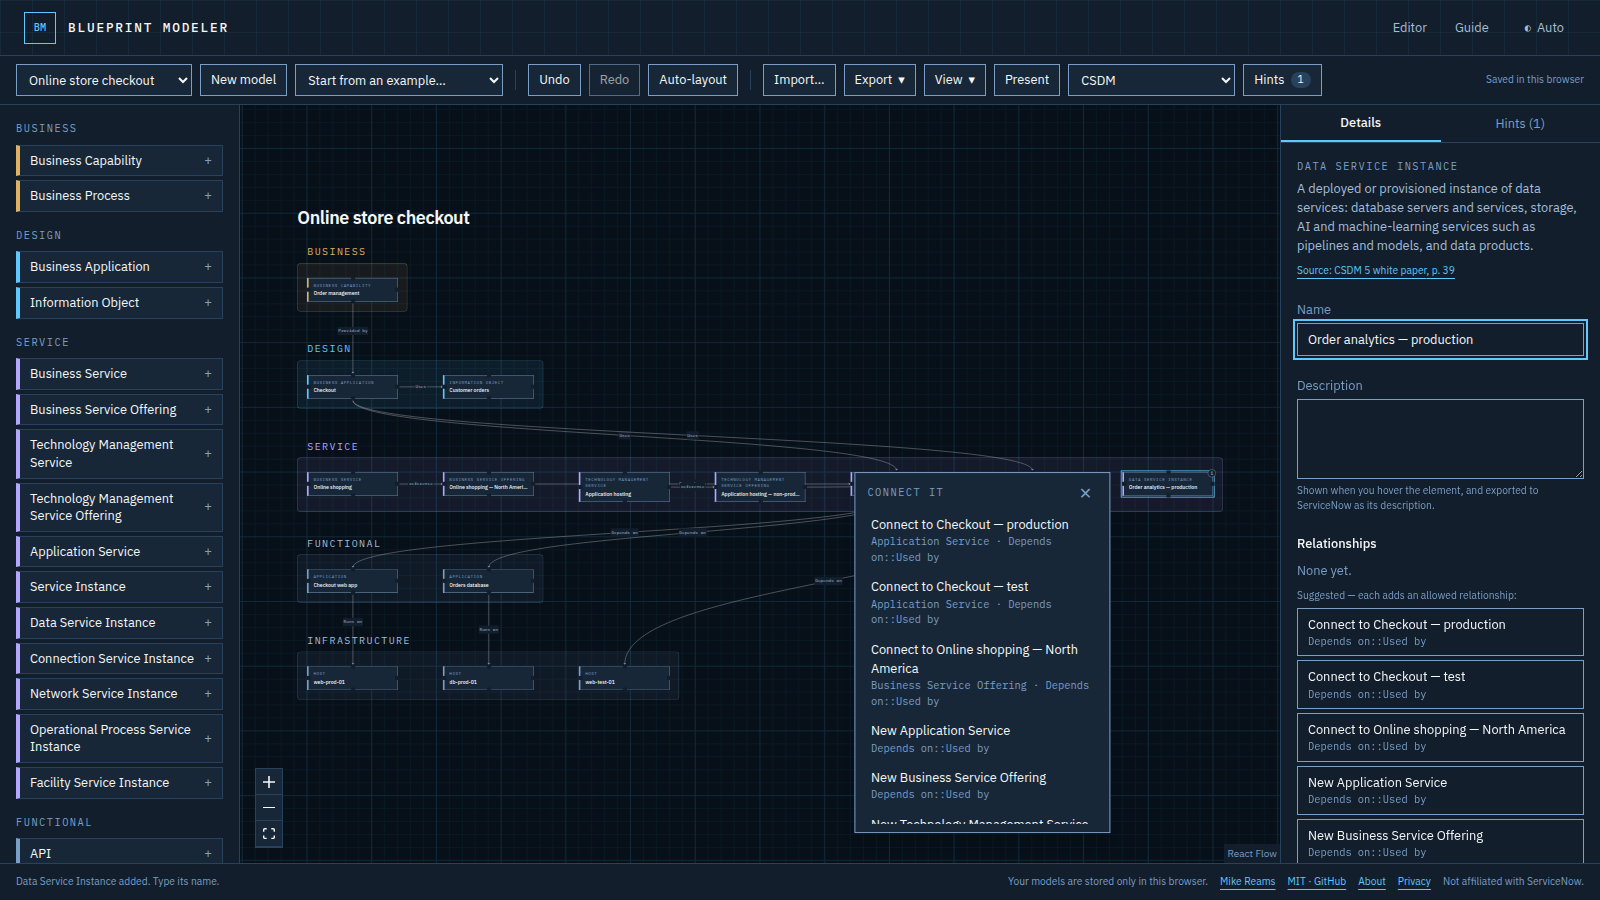
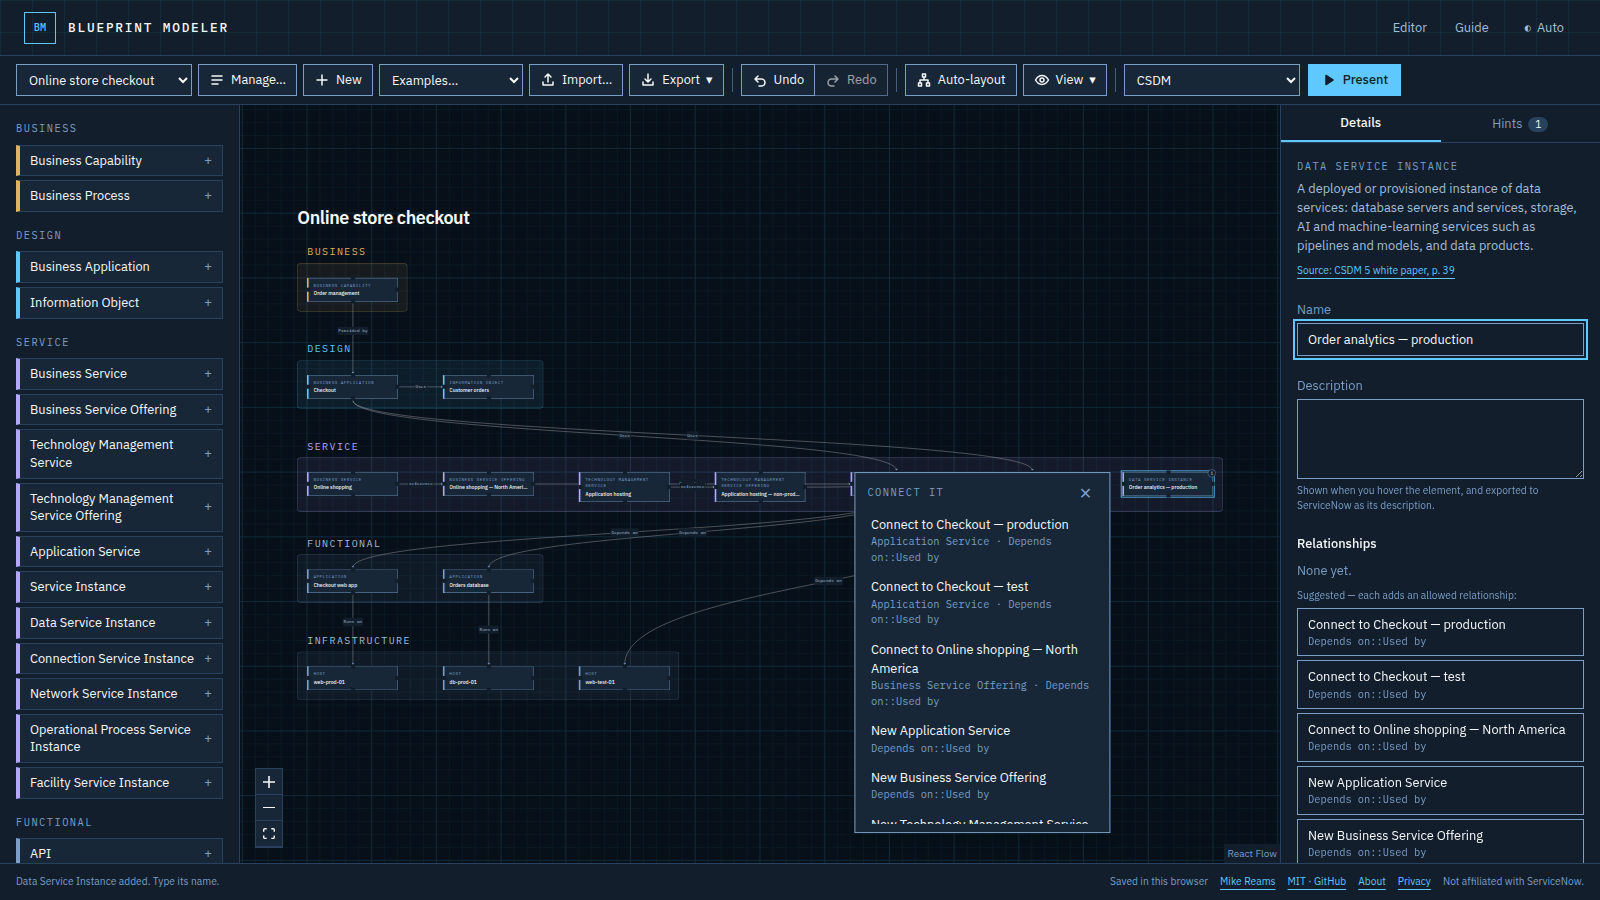
feat(M24): clearer editor toolbar
- Icons on every toolbar button (labels kept) and groups: Model, Edit
  (Undo/Redo joined), Arrange, Lens; captions on very wide screens.
- Present is the one filled button.
- The separate Hints button is gone; the Hints tab shows the count as a
  badge (amber when there are warnings).
- Save status moved to the bottom bar; one toolbar row from 1440px.
- README screenshots redrawn.

Claude-Session: https://claude.ai/code/session_01Abent9jvXwPAPZb1o8Vp7J

diff --git a/src/editor/Editor.tsx b/src/editor/Editor.tsx
@@ -49,6 +49,7 @@ import { ExportMenu, type ExportKind } from "./ExportMenu";
 import { ContextMenu, type MenuItem } from "./ContextMenu";
 import { CanvasEdge, LabelObstacles } from "./CanvasEdge";
 import { ModelManager } from "./ModelManager";
+import { ToolbarIcon } from "./ToolbarIcon";
 import { CanvasTitle } from "./CanvasTitle";
 import { LayerOverlay, layerHandleId, type LayerHandlers } from "./LayerOverlay";
 import { DEFAULT_VIEW, readView, saveView, ViewMenu, type ViewOptions } from "./ViewMenu";
@@ -77,6 +78,13 @@ const toolbarButton =
 const fitPadding = (p: number) => ({ x: p, bottom: p, top: "120px" }) as const;
 /** Status bar links: a 24px-tall target even at the bar's small text size. */
 const footerLink = "inline-flex min-h-6 items-center text-accent underline underline-offset-4 hover:opacity-90";
+/** The one filled button: Present. */
+const primaryButton =
+  "inline-flex min-h-8 cursor-pointer items-center gap-1.5 border border-accent bg-accent px-3 text-sm font-medium text-accent-ink hover:opacity-90 disabled:cursor-not-allowed disabled:opacity-60";
+/** Toolbar groups (Model, Edit, Arrange, Lens): a caption on wide screens, a divider between groups. */
+const toolbarGroup = "flex flex-wrap items-center gap-1.5";
+const groupCaption = "mr-0.5 hidden font-mono text-[0.65rem] tracking-[0.14em] text-ink-muted uppercase min-[1840px]:inline";
+const toolbarDivider = "h-6 w-px bg-border-strong/50";
 const toolbarSelect = "min-h-8 max-w-60 border border-border-strong bg-surface-raised px-2 text-sm text-ink";
 
 function useIsWide() {
@@ -736,7 +744,7 @@ function EditorInner() {
 
   const selected = model.nodes.find((n) => n.id === selectedId);
   const scopedHints = selected ? hints.filter((h) => h.nodeIds.includes(selected.id)) : hints;
-  const warnings = hints.filter((h) => h.hint.severity === "warning").length;
+  const scopedWarnings = scopedHints.filter((h) => h.hint.severity === "warning").length;
 
   const onTabKey = (e: ReactKeyboardEvent) => {
     if (e.key === "ArrowRight" || e.key === "ArrowLeft") {
@@ -770,6 +778,10 @@ function EditorInner() {
         </div>
       )}
       <div className={`flex flex-wrap items-center gap-2 border-b border-border px-4 py-2 ${presenting ? "hidden" : ""}`}>
+        <div role="group" aria-label="Model" className={toolbarGroup}>
+        <span className={groupCaption} aria-hidden="true">
+          Model
+        </span>
         <label className="flex items-center gap-2 text-sm">
           <span className="sr-only">Open model</span>
           {/* Fixed width: a long model name must not re-wrap the toolbar after the canvas has been fitted. */}
@@ -790,16 +802,18 @@ function EditorInner() {
           </select>
         </label>
         <button type="button" className={toolbarButton} onClick={() => setManaging(true)}>
+          <ToolbarIcon name="manage" />
           Manage…
         </button>
-        <button type="button" className={toolbarButton} onClick={() => void doc.newModel()}>
-          New model
+        <button type="button" className={toolbarButton} onClick={() => void doc.newModel()} aria-label="New model">
+          <ToolbarIcon name="new" />
+          New
         </button>
         <label className="flex items-center text-sm">
           <span className="sr-only">Start from an example</span>
           {/* Fixed width, like the model picker: a long example name must not re-wrap the toolbar. */}
-          <select className={`${toolbarSelect} w-52`} value="" onChange={(e) => void loadExample(e.target.value)}>
-            <option value="">Start from an example…</option>
+          <select className={`${toolbarSelect} w-36`} value="" onChange={(e) => void loadExample(e.target.value)}>
+            <option value="">Examples…</option>
             {examples.map((ex) => (
               <option key={ex.id} value={ex.id}>
                 {ex.name}
@@ -807,22 +821,10 @@ function EditorInner() {
             ))}
           </select>
         </label>
-        <span className="mx-1 h-5 w-px bg-border" aria-hidden="true" />
-        <button type="button" className={toolbarButton} disabled={!doc.canUndo} onClick={() => dispatch({ type: "undo" })} aria-keyshortcuts="Control+Z">
-          Undo
-        </button>
-        <button type="button" className={toolbarButton} disabled={!doc.canRedo} onClick={() => dispatch({ type: "redo" })} aria-keyshortcuts="Control+Shift+Z">
-          Redo
-        </button>
-        {wide && (
-          <button type="button" className={toolbarButton} disabled={layingOut || model.nodes.length === 0} aria-busy={layingOut} onClick={() => void runLayout()}>
-            {layingOut ? "Laying out…" : "Auto-layout"}
-          </button>
-        )}
-        <span className="mx-1 h-5 w-px bg-border" aria-hidden="true" />
         {wide && (
           <>
             <button type="button" className={toolbarButton} onClick={() => fileInput.current?.click()}>
+              <ToolbarIcon name="import" />
               Import…
             </button>
             <input
@@ -840,42 +842,57 @@ function EditorInner() {
           </>
         )}
         <ExportMenu onExport={exportAs} buttonClass={toolbarButton} notes={{ drawio: lucidFitNote(lucidFit(model)) }} />
-        <ViewMenu value={view} onChange={setView} buttonClass={toolbarButton} />
-        <button ref={presentButton} type="button" className={toolbarButton} disabled={model.nodes.length === 0} onClick={startPresenting}>
+        </div>
+        <span className={toolbarDivider} aria-hidden="true" />
+        <div role="group" aria-label="Edit" className={toolbarGroup}>
+          <span className={groupCaption} aria-hidden="true">
+            Edit
+          </span>
+          {/* Undo and Redo as one joined pair. */}
+          <span className="inline-flex">
+            <button type="button" className={toolbarButton} disabled={!doc.canUndo} onClick={() => dispatch({ type: "undo" })} aria-keyshortcuts="Control+Z">
+              <ToolbarIcon name="undo" />
+              Undo
+            </button>
+            <button type="button" className={`${toolbarButton} -ml-px`} disabled={!doc.canRedo} onClick={() => dispatch({ type: "redo" })} aria-keyshortcuts="Control+Shift+Z">
+              <ToolbarIcon name="redo" />
+              Redo
+            </button>
+          </span>
+        </div>
+        <span className={toolbarDivider} aria-hidden="true" />
+        <div role="group" aria-label="Arrange" className={toolbarGroup}>
+          <span className={groupCaption} aria-hidden="true">
+            Arrange
+          </span>
+          {wide && (
+            <button type="button" className={toolbarButton} disabled={layingOut || model.nodes.length === 0} aria-busy={layingOut} onClick={() => void runLayout()}>
+              <ToolbarIcon name="layout" />
+              {layingOut ? "Laying out…" : "Auto-layout"}
+            </button>
+          )}
+          <ViewMenu value={view} onChange={setView} buttonClass={toolbarButton} />
+        </div>
+        <span className={toolbarDivider} aria-hidden="true" />
+        <div role="group" aria-label="Lens" className={toolbarGroup}>
+          <span className={groupCaption} aria-hidden="true">
+            Lens
+          </span>
+          <label className="flex items-center text-sm">
+            <span className="sr-only">Framework lens</span>
+            <select className={`${toolbarSelect} w-44`} value={lens} onChange={(e) => setLens(e.target.value as Lens)} data-testid="lens-select">
+              {lenses.map((l) => (
+                <option key={l.id} value={l.id}>
+                  {l.label}
+                </option>
+              ))}
+            </select>
+          </label>
+        </div>
+        <button ref={presentButton} type="button" className={primaryButton} disabled={model.nodes.length === 0} onClick={startPresenting}>
+          <ToolbarIcon name="present" />
           Present
         </button>
-        <label className="flex items-center text-sm">
-          <span className="sr-only">Framework lens</span>
-          <select className={toolbarSelect} value={lens} onChange={(e) => setLens(e.target.value as Lens)} data-testid="lens-select">
-            {lenses.map((l) => (
-              <option key={l.id} value={l.id}>
-                {l.label}
-              </option>
-            ))}
-          </select>
-        </label>
-        {wide && (
-          <button
-            type="button"
-            className={toolbarButton}
-            onClick={() => {
-              setSelectedId(null);
-              setTab("hints");
-            }}
-          >
-            Hints
-            <span className={`min-w-5 rounded-full px-1.5 font-mono text-xs ${warnings ? "bg-status text-accent-ink" : "bg-border text-ink"}`}>{hints.length}</span>
-          </button>
-        )}
-        {/* The widest routine status reserves its width, so "Saving…" ↔ "Saved" never re-wraps the toolbar (and moves the canvas). */}
-        <p className="ml-auto grid text-right text-xs text-ink-muted">
-          <span aria-hidden="true" className="invisible col-start-1 row-start-1">
-            {statusText.saved}
-          </span>
-          <span className="col-start-1 row-start-1" data-testid="save-status">
-            {statusText[doc.status]}
-          </span>
-        </p>
       </div>
 
       {ioError && !presenting && (
@@ -1011,11 +1028,21 @@ function EditorInner() {
                   type="button"
                   aria-selected={tab === t}
                   aria-controls={`panel-${t}`}
+                  aria-label={t === "hints" ? `Hints (${scopedHints.length})` : undefined}
                   tabIndex={tab === t ? 0 : -1}
                   onClick={() => setTab(t)}
                   className={`flex-1 cursor-pointer px-3 py-2 text-sm ${tab === t ? "border-b-2 border-accent font-medium text-ink" : "text-ink-muted hover:text-ink"}`}
                 >
-                  {t === "details" ? "Details" : `Hints (${scopedHints.length})`}
+                  {t === "details" ? (
+                    "Details"
+                  ) : (
+                    <>
+                      Hints
+                      <span aria-hidden="true" className={`ml-1.5 inline-block min-w-5 rounded-full px-1.5 font-mono text-xs ${scopedWarnings ? "bg-status text-accent-ink" : "bg-border text-ink"}`}>
+                        {scopedHints.length}
+                      </span>
+                    </>
+                  )}
                 </button>
               ))}
             </div>
@@ -1073,7 +1100,17 @@ function EditorInner() {
         </p>
         {/* The site footer is left off this page (the editor fills the screen); its links live here. */}
         <div className="flex flex-wrap items-center gap-x-3">
-          <p>{wide ? "Your models are stored only in this browser." : "Editing needs a screen at least 768px wide. You can view and pan here."}</p>
+          {/* The widest routine status reserves its width, so "Saving…" ↔ "Saved" never shifts the bar. */}
+          <p className="grid">
+            <span aria-hidden="true" className="invisible col-start-1 row-start-1">
+              {statusText.saved}
+            </span>
+            <span className="col-start-1 row-start-1" data-testid="save-status">
+              {statusText[doc.status]}
+            </span>
+          </p>
+          {/* "Saved in this browser" already says where models live; small screens get the editing note. */}
+          {!wide && <p>Editing needs a screen at least 768px wide. You can view and pan here.</p>}
           <nav aria-label="Site">
             <ul className="flex flex-wrap items-center gap-x-3">
               <li>

diff --git a/e2e/polish.spec.ts b/e2e/polish.spec.ts
@@ -179,3 +179,25 @@ test.describe("landing page", () => {
     await expect.poll(() => table.evaluate((e) => e.scrollWidth - e.getBoundingClientRect().width), { timeout: 500 }).toBeLessThanOrEqual(1);
   });
 });
+
+test.describe("editor toolbar (desktop)", () => {
+  test.skip(({ isMobile }) => !!isMobile, "the full toolbar is desktop-only");
+
+  for (const scheme of ["dark", "light"] as const) {
+    test(`groups its buttons, makes Present the one filled button, and has no separate Hints button (${scheme})`, async ({ page }) => {
+      await page.emulateMedia({ colorScheme: scheme });
+      await page.goto("/editor");
+      await expect(page.getByTestId("save-status")).toHaveText("Saved in this browser");
+      for (const name of ["Model", "Edit", "Arrange", "Lens"]) await expect(page.getByRole("group", { name, exact: true })).toBeVisible();
+      await expect(page.getByRole("group", { name: "Edit" }).getByRole("button")).toHaveText(["Undo", "Redo"]);
+      await expect(page.locator("main").getByRole("button", { name: /^Hints/ })).toHaveCount(0);
+      await expect(page.getByRole("tab", { name: "Hints (0)" })).toBeVisible();
+      await page.getByRole("combobox", { name: "Start from an example" }).selectOption({ label: "Online store checkout" });
+      const present = page.getByRole("button", { name: "Present" });
+      await expect(present).toBeEnabled();
+      expect(await contrastOf(present), scheme).toBeGreaterThanOrEqual(4.5);
+      // Toolbar icons are decorative: every button keeps its text label.
+      expect(await page.locator("[role=group] button svg:not([aria-hidden=true])").count()).toBe(0);
+    });
+  }
+});

diff --git a/src/editor/ToolbarIcon.tsx b/src/editor/ToolbarIcon.tsx
@@ -1,0 +1,22 @@
+/** Toolbar icons: 16px line drawings in the text color. Decorative — every button keeps its text label. */
+const paths = {
+  manage: "M3 4h10M3 8h10M3 12h6",
+  new: "M8 3v10M3 8h10",
+  import: "M8 10V2M5 5l3-3 3 3M3 10v3h10v-3",
+  export: "M8 2v8M5 7l3 3 3-3M3 10v3h10v-3",
+  undo: "M6 4 3 7l3 3M3 7h6.5a3.5 3.5 0 0 1 0 7H7",
+  redo: "M10 4l3 3-3 3M13 7H6.5a3.5 3.5 0 0 0 0 7H9",
+  layout: "M6.5 2h3v3h-3zM2.5 11h3v3h-3zM10.5 11h3v3h-3zM8 5v3M4 11V8h8v3",
+  view: "M1.5 8S4 3.5 8 3.5 14.5 8 14.5 8 12 12.5 8 12.5 1.5 8 1.5 8ZM8 10a2 2 0 1 0 0-4 2 2 0 0 0 0 4Z",
+  present: "M5 3.5v9l7-4.5z",
+} as const;
+
+export type ToolbarIconName = keyof typeof paths;
+
+export function ToolbarIcon({ name }: { name: ToolbarIconName }) {
+  return (
+    <svg aria-hidden="true" viewBox="0 0 16 16" className="size-4 shrink-0" fill={name === "present" ? "currentColor" : "none"} stroke="currentColor" strokeWidth="1.5" strokeLinecap="round" strokeLinejoin="round">
+      <path d={paths[name]} />
+    </svg>
+  );
+}

diff --git a/src/editor/ViewMenu.tsx b/src/editor/ViewMenu.tsx
@@ -1,6 +1,7 @@
 "use client";
 
 import { useEffect, useId, useRef, useState } from "react";
+import { ToolbarIcon } from "./ToolbarIcon";
 
 export type ViewOptions = { boxes: boolean; lanes: boolean; snap: boolean; extended: boolean };
 export const VIEW_KEY = "bm-view";
@@ -59,6 +60,7 @@ export function ViewMenu({ value, onChange, buttonClass }: { value: ViewOptions;
       }}
     >
       <button ref={button} type="button" className={buttonClass} aria-expanded={open} aria-controls={listId} onClick={() => setOpen((o) => !o)}>
+        <ToolbarIcon name="view" />
         View <span aria-hidden="true">▾</span>
       </button>
       <ul id={listId} hidden={!open} className="absolute left-0 z-20 mt-1 w-64 border border-border-strong bg-surface-raised py-1">

diff --git a/src/editor/ExportMenu.tsx b/src/editor/ExportMenu.tsx
@@ -1,6 +1,7 @@
 "use client";
 
 import { useEffect, useId, useRef, useState } from "react";
+import { ToolbarIcon } from "./ToolbarIcon";
 
 export type ExportKind = "json" | "svg-dark" | "svg-light" | "archimate" | "drawio" | "servicenow";
 
@@ -51,6 +52,7 @@ export function ExportMenu({
       }}
     >
       <button ref={button} type="button" className={buttonClass} aria-expanded={open} aria-controls={listId} onClick={() => setOpen((o) => !o)}>
+        <ToolbarIcon name="export" />
         Export <span aria-hidden="true">▾</span>
       </button>
       <ul id={listId} hidden={!open} className="absolute left-0 z-20 mt-1 w-60 border border-border-strong bg-surface-raised py-1">

diff --git a/SPEC.md b/SPEC.md
@@ -94,6 +94,7 @@
 | M21 | Two examples + ArchiMate-only lens | Lens "ArchiMate 3.2 only": elements headed by their ArchiMate type and icon (no CSDM class line), relationships labeled with the ArchiMate relationship, arrow on the end ArchiMate points to; palette and Inspector keep CSDM names for editing; exports treat it like the ArchiMate lens. Examples: "Claims handling (ArchiMate view)" opens in that lens; "CSDM 5 core metamodel" has the 19 white-paper classes (no extended or CMDB-only) and one relationship per allowed pair (61), laid out four per row by layer, opening in the CSDM lens. CSDM 6 is not published (checked September 2026) | unit (examples: classes, allowed-only, hints, lens) + e2e (lens switch, ArchiMate type and relationship names, contrast on shaded neighbors, 19 elements) | **done 2026-09-28** (Mike chose the ArchiMate-only view) |
 | M22 | Hover without zoom | Hover enlarge removed (Mike didn't like it). Hover still highlights the element and shows its description underneath, lifted above its neighbors; the element keeps its size | e2e (hover: highlight + description, size unchanged) | **done 2026-09-28** (asked by Mike) |
 | M23 | Manage models + v1.0.0 | Toolbar › Manage…: modal dialog of the models in this browser (name, open now, last saved) with Open, Download (JSON) and Delete per model, and Delete all; each delete asks once in place and cannot be undone (the dialog says so). Deleting the open model detaches autosave first, then opens the most recent remaining model (or a new empty one). Community files: CONTRIBUTING, CODE_OF_CONDUCT (adapted from Contributor Covenant 2.1), SECURITY (GitHub private reporting), issue forms (bug, rule correction with a required public source), PR template. package.json 1.0.0 for the first GitHub release | e2e (list, download, cancel, delete one, delete open, delete all, persists after reload, axe on the dialog, Escape returns focus) | **done 2026-09-28** (asked by Mike) |
+| M24 | Clearer toolbar | Buttons get icons (inline SVG, decorative; labels kept) and sit in groups: Model (picker, Manage…, New, Examples…, Import…, Export), Edit (Undo/Redo joined), Arrange (Auto-layout, View), Lens; group captions from 1840px wide. Present is the one filled (accent) button. The separate Hints button is gone: the Hints tab carries the count as a badge, amber when the listed hints include a warning. The save status moved to the bottom bar (it replaces the "stored only in this browser" sentence). One toolbar row from 1440px wide. README screenshots redrawn | e2e (groups, Undo/Redo pair, no Hints button, tab count, Present contrast both themes, icons hidden from assistive tech; all suites) | **done 2026-09-28** (asked by Mike) |
 
 ## 9. Open questions
 
